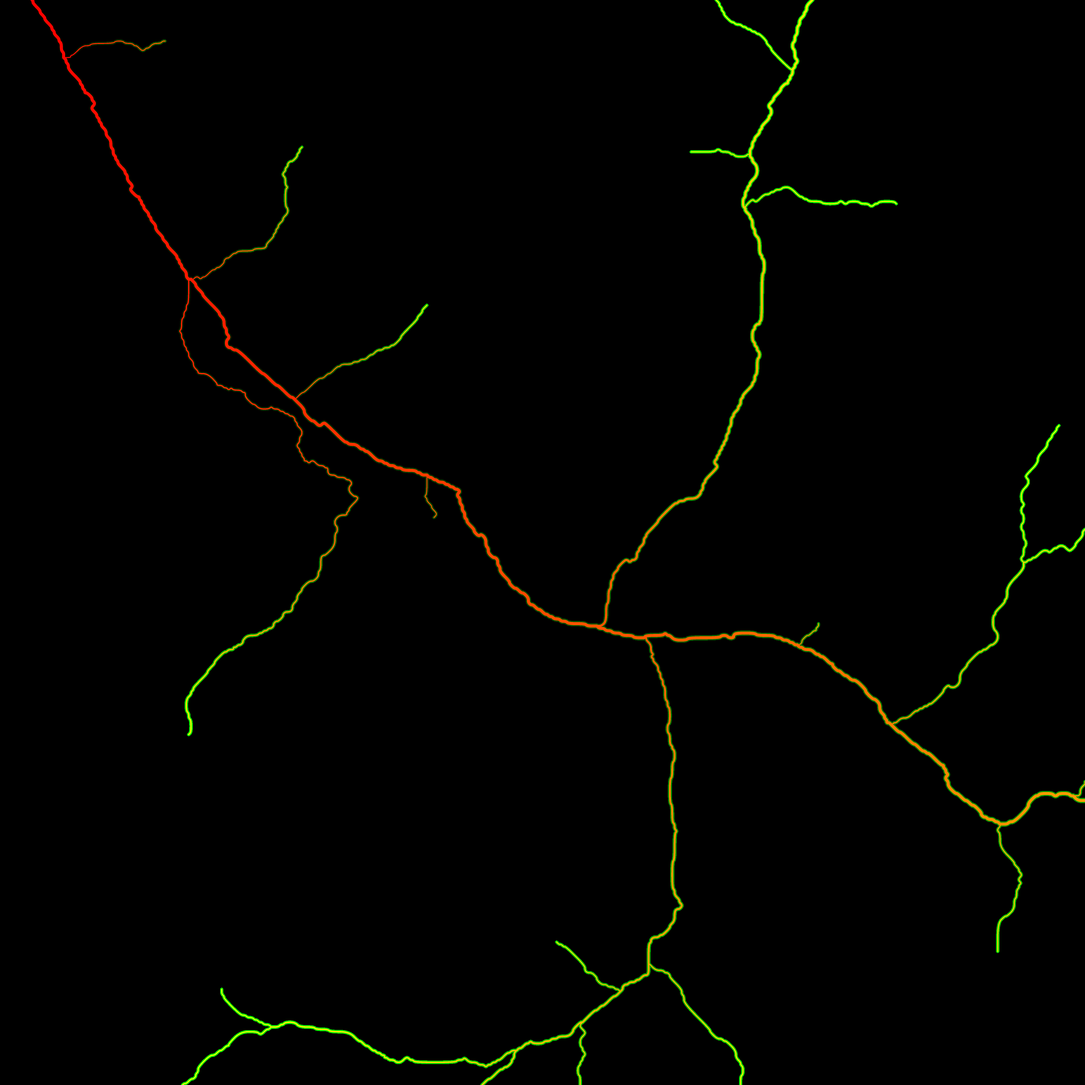
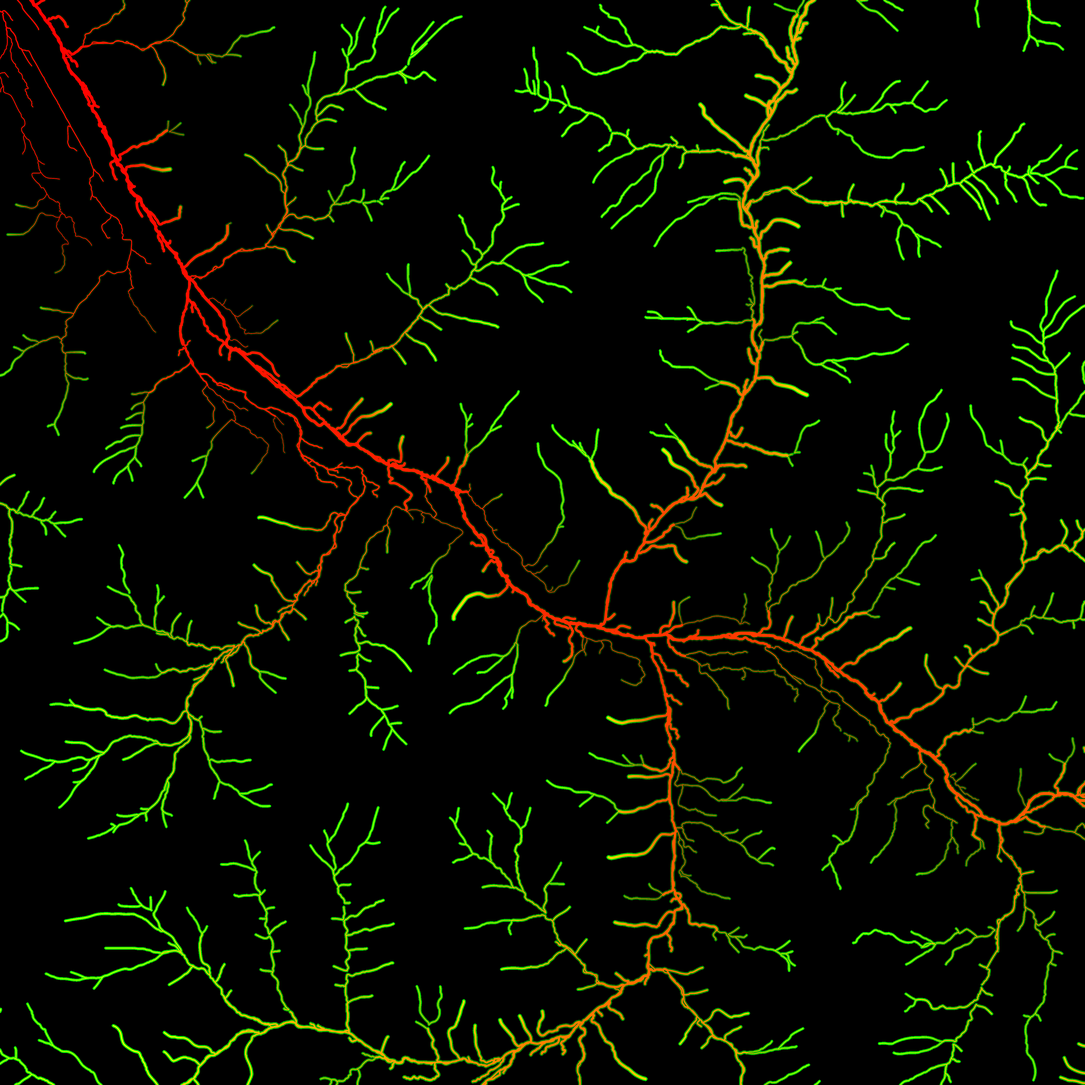
3D flight tells the story where it shows it; Google Earth-style controls; basin context when zoomed out
- Layers switch on at keyframes, not fixed shares of the flight: the floodplain over
  the wide valley floor early on, streams while looking at a dense knot of side creeks,
  roads while looking at the densest road cluster, then red dots at the 462 road-stream
  crossings in the tile, then everything on for the orbit. Highlight spots come from the
  bake (densest lines), so the path still works if the data change.
- Roads light up outward from where the camera is looking (a few seconds for the tile)
  instead of sweeping up the valley.
- Streams drawn from the pre-road lidar flowpaths down to 4 ha of drainage.
- Controls: left-drag pans, right/Shift/Ctrl-drag rotates and tilts, wheel and pinch
  zoom; pressing on the view takes over from the flight; double-click eases in to a point.
- Zoomed out (past about 7 km), the Baduwa't basin outline, the river to the Pacific
  and Ruth Lake fade in, flat and lightweight (33 kB), with labels outside the outline.

diff --git a/index.html b/index.html
@@ -100,6 +100,9 @@ textarea{min-height:70px;resize:vertical}
 .hero .leg .rempick button[aria-pressed="true"]{background:#F4F1EA;color:#0e1b26}
 .hero .leg b{display:inline-block;width:22px;height:5px;border-radius:2px;vertical-align:middle;margin-right:7px}
 @media (max-width:700px){.hero .lay3d{bottom:60px}.hero .stage{bottom:104px}.hero .stage span{display:none}.hero .leg{display:none}}
+.lab3d.far{font-size:15px;color:#E9E4D8;transform-origin:0 50%}
+.lab3d.far.left{margin-top:-0.6em;padding-left:8px}
+.lab3d.far.right{margin-top:-0.6em;translate:-100% 0;padding-right:8px}
 .lab3d{position:absolute;left:0;top:0;will-change:transform;font-family:var(--display);font-style:italic;font-size:17px;color:#F4F1EA;text-shadow:0 0 4px #0e1b26,0 0 8px #0e1b26;pointer-events:none;white-space:nowrap}
 .sec{padding-block:44px 8px;display:grid;gap:18px}
 .sec h2{font-size:clamp(26px,3vw,34px)}
@@ -604,28 +607,38 @@ function initThree(){
   try { renderer = new THREE.WebGLRenderer({ canvas, antialias: true }); } catch (e) { canvas.hidden = true; return { resize(){} }; }
   const SKY = new THREE.Color("#0e1b26");
   const scene = new THREE.Scene(); scene.background = SKY;
-  const cam = new THREE.PerspectiveCamera(42, 1, 10, 20000);
-  const ctl = new THREE.OrbitControls(cam, canvas); ctl.enableDamping = true; ctl.maxPolarAngle = 1.35; ctl.enabled = false;
-  ctl.minDistance = 250; ctl.maxDistance = 6500;
+  const cam = new THREE.PerspectiveCamera(42, 1, 10, 400000);
+  // Google Earth style: left-drag pans the ground, right-drag (or Shift/Ctrl-drag) rotates and tilts, wheel zooms,
+  // one finger pans and two fingers zoom and rotate on a phone
+  const ctl = new THREE.OrbitControls(cam, canvas); ctl.enableDamping = true; ctl.dampingFactor = 0.08; ctl.maxPolarAngle = 1.45; ctl.enabled = false;
+  ctl.minDistance = 150; ctl.maxDistance = 160000; ctl.screenSpacePanning = false; ctl.zoomSpeed = 2.0;
+  ctl.mouseButtons = { LEFT: THREE.MOUSE.PAN, MIDDLE: THREE.MOUSE.DOLLY, RIGHT: THREE.MOUSE.ROTATE };
+  ctl.touches = { ONE: THREE.TOUCH.PAN, TWO: THREE.TOUCH.DOLLY_ROTATE };
   const EX = 1.35, SPAN = 10, DUR = 130000;   // vertical exaggeration, path sample spacing (m), flight length (ms)
-  // ---- the flight's story: layer changes keyed to the share of the flight flown ----
+  // ---- the flight's story. Each stage is keyed to a keyframe (k, fractional), so a layer comes on while the camera is
+  // looking at a good example of it: the wide valley floor early on, a dense knot of side creeks, the densest road cluster.
   const STAGES = [
-    { at: 0.00, t: "Aerial imagery", s: "What a plane sees: the river, two years after the 2020 August Complex fire." },
-    { at: 0.08, t: "Lidar: the bare ground", s: "Laser pulses that reach the soil strip away the trees and show the shape of the land." },
-    { at: 0.18, t: "Streams", s: "Traced from the lidar, filling in from the river up into the side creeks." },
-    { at: 0.34, t: "Roads the lidar found", s: "" },
-    { at: 0.66, t: "Valley floor", s: "" },
-    { at: 0.82, t: "Look around", s: "Drag to look around, or switch the layers on and off below." } ];
+    { k: 0, t: "Aerial imagery", s: "What a plane sees: the river, two years after the 2020 August Complex fire." },
+    { k: 0.2, t: "Lidar: the bare ground", s: "Laser pulses that reach the soil strip away the trees and show the shape of the land." },
+    { k: 0.85, t: "Valley floor", s: "" },
+    { k: 3.0, t: "Streams", s: "Traced from the lidar wherever 4 ha or more drains to a point, filling in from the river up into the side creeks." },
+    { k: 4.6, t: "Roads the lidar found", s: "" },
+    { k: 5.45, t: "Where roads cross streams", s: "" },
+    { k: 7.3, t: "Look around", s: "Drag to look around, or switch the layers on and off below." } ];
+  const SI = t => STAGES.findIndex(x => x.t === t);
+  STAGES.forEach(x => x.at = x.k / 9);
   const ramp = (a, b, x) => Math.max(0, Math.min(1, (x - a) / (b - a)));
-  const auto = f => ({ wipe: ramp(0.08, 0.16, f), streams: ramp(0.18, 0.34, f), roads: ramp(0.34, 0.62, f), rem: ramp(0.66, 0.74, f) });
+  let KF = k => k / 9;                                                   // keyframe -> share of the flight; set once the path is built
+  const auto = f => { const K = KF, up = ramp(K(0.85), K(1.25), f), down = ramp(K(2.4), K(2.9), f), back = ramp(K(7.2), K(8.0), f);
+    return { wipe: ramp(K(0.2), K(0.7), f), rem: Math.max(up * (1 - down), back), streams: ramp(K(3.0), K(4.2), f), roads: ramp(K(4.6), K(5.5), f), xing: ramp(K(5.4), K(5.9), f) }; };
   const U = { tImg: { value: null }, tLid: { value: null }, tRem: { value: null }, tRoad: { value: null }, tStr: { value: null },
-    uWipe: { value: 0 }, uStream: { value: 0 }, uStreamA: { value: 1 }, uRoad: { value: 0 }, uRoadA: { value: 1 }, uRem: { value: 0 }, uDark: { value: 0 },
+    uWipe: { value: 0 }, uStream: { value: 0 }, uStreamA: { value: 1 }, uRoad: { value: 0 }, uRoadA: { value: 1 }, uRem: { value: 0 }, uDark: { value: 0 }, uROrig: { value: new THREE.Vector2() }, uRRad: { value: 0 },
     uA: { value: new THREE.Vector2() }, uDir: { value: new THREE.Vector2(1, 0) }, uLen: { value: 1 },
     uPal: { value: [0, 1, 2, 3, 4, 5].map(() => new THREE.Color("#E8A33D")) }, fogC: { value: SKY }, fogN: { value: 3400 }, fogF: { value: 8200 } };
   const VS = `varying vec2 vUv; varying vec3 vW; varying float vD;
     void main(){ vUv = uv; vec4 w = modelMatrix * vec4(position, 1.0); vW = w.xyz; vec4 m = viewMatrix * w; vD = -m.z; gl_Position = projectionMatrix * m; }`;
-  const FS = `uniform sampler2D tImg, tLid, tRem, tRoad, tStr; uniform float uWipe, uStream, uStreamA, uRoad, uRoadA, uRem, uDark, uLen, fogN, fogF;
-    uniform vec2 uA, uDir; uniform vec3 uPal[6]; uniform vec3 fogC; varying vec2 vUv; varying vec3 vW; varying float vD;
+  const FS = `uniform sampler2D tImg, tLid, tRem, tRoad, tStr; uniform float uWipe, uStream, uStreamA, uRoad, uRoadA, uRem, uDark, uLen, uRRad, fogN, fogF;
+    uniform vec2 uA, uDir, uROrig; uniform vec3 uPal[6]; uniform vec3 fogC; varying vec2 vUv; varying vec3 vW; varying float vD;
     vec3 pal(float id){ vec3 c = uPal[1]; for (int i = 0; i < 6; i++) { if (abs(float(i) - id) < 0.5) c = uPal[i]; } return c; }
     void main(){
       vec3 lid = mix(texture2D(tLid, vUv).rgb, texture2D(tRem, vUv).rgb, uRem);
@@ -636,7 +649,7 @@ function initThree(){
       if (s.g > 0.002) { float on = clamp((uStream - s.g) / 0.012, 0.0, 1.0), hot = on * (1.0 - clamp((uStream - s.g) / 0.05, 0.0, 1.0));
         c = mix(c, mix(vec3(0.26, 0.58, 0.86), vec3(0.75, 0.92, 1.0), hot), s.r * on * uStreamA * (1.0 - 0.7 * uRem)); }   // lines step back when the floodplain colors are on
       vec3 r = texture2D(tRoad, vUv).rgb;
-      if (r.g > 0.002) { float on = clamp((uRoad - r.g) / 0.012, 0.0, 1.0), hot = on * (1.0 - clamp((uRoad - r.g) / 0.05, 0.0, 1.0));
+      if (r.g > 0.002) { float dr = uRRad - distance(vW.xz, uROrig), on = clamp(dr / 40.0, 0.0, 1.0), hot = on * (1.0 - clamp(dr / 350.0, 0.0, 1.0));   // spreads out from uROrig
         float id = floor(r.b * 255.0 / 40.0 + 0.5) - 1.0; vec3 rc = pal(id);
         if (id < 0.5) rc = mix(rc, vec3(0.95, 0.92, 0.84), uRem * uDark);   // the main road turns cream on a dark floodplain palette
         c = mix(c, c * 0.35, r.r * on * uRoadA * 0.5 * (1.0 - 0.6 * uRem));                        // a soft dark edge under the line
@@ -645,12 +658,14 @@ function initThree(){
   let FL = null, labels = [], tj = null;
   let playing = false, manual = false, t0 = 0, ft = 0, raf = 0, last = 0, visible = true, settle = 0;
   const want = { lidar: 1, streams: 1, roads: 1, rem: 1 };                       // manual layer choice
-  const cur = { wipe: 0, streams: 0, sA: 1, roads: 0, rA: 1, rem: 0 };
+  const cur = { wipe: 0, streams: 0, sA: 1, roads: 0, rA: 1, rem: 0, xing: 0 };
+  let SPOT = null, xpts = null, ctx = null, mesh = null, zoomTo = null;
+  const ray = new THREE.Raycaster(), ndc = new THREE.Vector2();
   const lookT = new THREE.Vector3();
   function resize(){
     const w = hero.clientWidth, h = hero.clientHeight; if (!w || !h) return;
     renderer.setPixelRatio(Math.min(devicePixelRatio || 1, 2, Math.sqrt(2.4e6 / (w * h))));   // cap the pixel count on big screens
-    renderer.setSize(w, h, false); cam.aspect = w / h; cam.updateProjectionMatrix(); kick();
+    renderer.setSize(w, h, false); if (xpts) xpts.material.uniforms.uPR.value = renderer.getPixelRatio(); cam.aspect = w / h; cam.updateProjectionMatrix(); kick();
   }
   // even spacing along a line, then a Gaussian smooth (ends mirrored so the line keeps its heading)
   function resamp(P, d){ const o = [P[0].slice()]; let carry = 0;
@@ -675,7 +690,7 @@ function initThree(){
       return (HT[i] * (1 - fc) + HT[i + 1] * fc) * (1 - fr) + (HT[i + n] * (1 - fc) + HT[i + n + 1] * fc) * fr; };
     const RING = [[0, 0], [70, 0], [-70, 0], [0, 70], [0, -70], [50, 50], [-50, 50], [50, -50], [-50, -50]];
     const clear = (x, z) => Math.max(...RING.map(o => hAt(x + o[0], z + o[1])));
-    scene.add(new THREE.Mesh(g, new THREE.ShaderMaterial({ uniforms: U, vertexShader: VS, fragmentShader: FS })));
+    mesh = new THREE.Mesh(g, new THREE.ShaderMaterial({ uniforms: U, vertexShader: VS, fragmentShader: FS })); scene.add(mesh);
     // the river, smoothed hard (sigma 300 m) so the flight line ignores the meanders
     const raw = resamp(tj.path.map(p => [p[0], -p[1], (p[2] - tj.zmin) * EX]), SPAN);
     const R = resamp(gsmooth(raw, 300 / SPAN), SPAN), LEN = (R.length - 1) * SPAN;
@@ -691,12 +706,21 @@ function initThree(){
     // the exit climbs out to the side of the valley (never over its own look point), and the orbit starts where the climb
     // ends, so the view turns from up-river to the valley centre gradually instead of whipping round
     const Cf = W(LEN * 0.55); Cf.y += 40;
-    const S = -1, K7 = P(3900, 640, S * 1300), OR = Math.hypot(K7.x - Cf.x, K7.z - Cf.z), OH = K7.y;
+    // highlight spots from the bake (densest stream lines, densest roads; local x east / y north)
+    const spot = (k, d) => { const q = (tj.spots || {})[k]; if (!q) return d; return new THREE.Vector3(q[0], hAt(q[0], -q[1]) + 10, -q[1]); };
+    const STs = spot("streams", W(3400)), RDs = spot("roads", W(3400));
+    SPOT = { roads: RDs };
+    // the exit climbs out to the right of the river (the road cluster is on the left), and stays inside the tile
+    let lat = 1300, K7 = P(3900, 640, lat);
+    while ((Math.abs(K7.x) > 1950 || Math.abs(K7.z) > 1950) && lat > 300) { lat -= 100; K7 = P(3900, 640, lat); }
+    const OR = Math.hypot(K7.x - Cf.x, K7.z - Cf.z), OH = K7.y;
     const orb = a => new THREE.Vector3(Cf.x + OR * Math.cos(a), OH, Cf.z + OR * Math.sin(a));
-    const a0 = Math.atan2(K7.z - Cf.z, K7.x - Cf.x), K6 = P(3650, 260, S * 480);
+    const a0 = Math.atan2(K7.z - Cf.z, K7.x - Cf.x), K6 = P(3500, 330, 450);
     const r_ = K7.clone().sub(Cf), v_ = K7.clone().sub(K6), dir = (r_.z * v_.x - r_.x * v_.z) < 0 ? 1 : -1;
-    const KC = [P(-420, 640), P(260, 330, 90), P(900, 150), P(1600, 92, -30), P(2400, 82, 25), P(3200, 90), K6, K7, orb(a0 + 0.35 * dir), orb(a0 + 0.7 * dir)];
-    const KL = [W(1700), W(1500), W(1800), W(2500), W(3300), W(4000), W(4500), W(4300).lerp(Cf, 0.65), Cf, Cf];
+    // 0 high opening | 1-2 over the wide valley floor (floodplain on) | 3-4 low up the river, looking at the side creeks (streams)
+    // 5-6 up on the right bank, looking across at the road cluster (roads, then crossings) | 7 climb | 8-9 orbit, everything on
+    const KC = [P(-420, 640), P(260, 330, 90), P(900, 170, 40), P(1600, 100, -30), P(2400, 95, 25), P(3000, 260, 350), K6, K7, orb(a0 + 0.35 * dir), orb(a0 + 0.7 * dir)];
+    const KL = [W(1700), W(1500), W(1900), W(2500), STs, RDs, RDs, W(4300).lerp(Cf, 0.65), Cf, Cf];
     const cc = new THREE.CatmullRomCurve3(KC, false, "centripetal"), lc = new THREE.CatmullRomCurve3(KL, false, "centripetal");
     cc.arcLengthDivisions = lc.arcLengthDivisions = 4000; cc.updateArcLengths(); lc.updateArcLengths();   // a fine arc-length table keeps the speed even
     // lift wherever the line between keyframes would pass close over a spur, eased so the camera never steps
@@ -707,15 +731,60 @@ function initThree(){
     const RE = 0.07, VM = 1 / (1 - RE / 2);                                   // ease in over the first 7%, then even speed
     const speed = cc.getLength() * VM / DUR, om = speed / OR * dir;          // the orbit carries on at the same ground speed
     FL = { cc, lc, lift, NS, Cf, orb, a1: a0 + 0.7 * dir, om };
+    // keyframe -> share of the flight, through the arc-length table and the ease-in, so stages land on their keyframes
+    const NT = 2000, uT = []; for (let i = 0; i <= NT; i++) uT.push(cc.getUtoTmapping(i / NT));
+    const memo = new Map(), nK = KC.length - 1;
+    KF = k => { if (memo.has(k)) return memo.get(k); const tt = k / nK; let i = 0; while (i < NT && uT[i] < tt) i++;
+      const u = i / NT, f = u < VM * RE / 2 ? Math.sqrt(2 * RE * u / VM) : u / VM + RE / 2; memo.set(k, f); return f; };
+    STAGES.forEach(x => x.at = KF(x.k));
+    // red dots where roads cross streams; diversion-prone ones a little larger
+    const xs = tj.xings || [], xpos = new Float32Array(xs.length * 3), dv = new Float32Array(xs.length);
+    xs.forEach((x, i) => { xpos[i * 3] = x[0]; xpos[i * 3 + 2] = -x[1]; xpos[i * 3 + 1] = hAt(x[0], -x[1]) + 5; dv[i] = x[3]; });
+    const pg = new THREE.BufferGeometry(); pg.setAttribute("position", new THREE.BufferAttribute(xpos, 3)); pg.setAttribute("aDiv", new THREE.BufferAttribute(dv, 1));
+    xpts = new THREE.Points(pg, new THREE.ShaderMaterial({ transparent: true, depthWrite: false,
+      uniforms: { uX: { value: 0 }, uPR: { value: renderer.getPixelRatio() }, uROrig: U.uROrig, uRRad: U.uRRad, fogN: U.fogN, fogF: U.fogF },
+      vertexShader: `attribute float aDiv; uniform float uPR, uRRad; uniform vec2 uROrig; varying float vOn, vD;
+        void main(){ vec4 w = modelMatrix * vec4(position, 1.0); vec4 m = viewMatrix * w; vD = -m.z; vOn = step(distance(w.xz, uROrig), uRRad);
+          gl_PointSize = clamp(9000.0 / vD, 6.0, 18.0) * (aDiv > 0.5 ? 1.2 : 1.0) * uPR; gl_Position = projectionMatrix * m; }`,
+      fragmentShader: `uniform float uX, fogN, fogF; varying float vOn, vD;
+        void main(){ vec2 p = gl_PointCoord * 2.0 - 1.0; float r = length(p); if (r > 1.0) discard;
+          vec3 c = r > 0.76 ? vec3(1.0, 0.96, 0.9) : vec3(0.86, 0.12, 0.10);
+          gl_FragColor = vec4(c, uX * vOn * (1.0 - smoothstep(fogN, fogF, vD)) * smoothstep(1.0, 0.84, r)); }` }));
+    xpts.renderOrder = 2; scene.add(xpts);
+    // zoomed-out context: the whole basin outline, the river to the Pacific, Ruth Lake, a faint ground plane, and labels
+    // outside the outline; drawn flat at the tile's lowest elevation, and only faded in once the camera is well out
+    const C = tj.context;
+    if (C){
+      ctx = { group: new THREE.Group(), mats: [], labs: [] };
+      const line = (pts, color, op, close) => { const v = pts.map(p => new THREE.Vector3(p[0], -4, -p[1])); if (close) v.push(v[0].clone());
+        const m = new THREE.LineBasicMaterial({ color, transparent: true, opacity: 0, depthWrite: false }); m.userData.op = op; ctx.mats.push(m);
+        ctx.group.add(new THREE.Line(new THREE.BufferGeometry().setFromPoints(v), m)); };
+      const xs_ = C.basin.map(p => p[0]), ys_ = C.basin.map(p => p[1]);
+      const gw = Math.max(...xs_) - Math.min(...xs_) + 60000, gh = Math.max(...ys_) - Math.min(...ys_) + 60000;
+      const gm = new THREE.MeshBasicMaterial({ color: "#16262f", transparent: true, opacity: 0, depthWrite: false }); gm.userData.op = 0.85; ctx.mats.push(gm);
+      const gp = new THREE.Mesh(new THREE.PlaneGeometry(gw, gh), gm); gp.rotation.x = -Math.PI / 2;
+      gp.position.set((Math.max(...xs_) + Math.min(...xs_)) / 2, -12, -(Math.max(...ys_) + Math.min(...ys_)) / 2); ctx.group.add(gp);
+      line(C.basin, "#F4F1EA", 0.75, true);
+      C.river.forEach(l => line(l, "#6FB7E8", 0.95, false));
+      C.lake.forEach(l => line(l, "#6FB7E8", 0.9, true));
+      ctx.group.renderOrder = 3; scene.add(ctx.group);
+      C.labels.concat([{ name: "This view", x: 0, y: 0, anchor: "left" }]).forEach(l => { const d = document.createElement("div"); d.className = "lab3d far " + (l.anchor || ""); d.textContent = l.name;
+        d.style.display = "none"; $("#labs3d").appendChild(d); ctx.labs.push({ el: d, v: new THREE.Vector3(l.x, 0, -l.y), on: false }); });
+    }
+    const nd = xs.filter(x => x[3] === 1).length;
+    STAGES[SI("Where roads cross streams")].s = `Each red dot is a road crossing a stream: ${fmt(xs.length)} in this view. ${fmt(nd)} of them could send the creek down the road if the crossing plugs.`;
     // ?debug in the address: window.__fl.seek(ms) jumps along the flight (paused), window.__fl.rem(id) switches palette
-    if (/[?&]debug\b/.test(location.search)) window.__fl = { seek: t => { playing = false; ft = t; t0 = performance.now() - t; camAt(ft); kick(); }, rem: k => setRem(k) };
+    if (/[?&]debug\b/.test(location.search)) window.__fl = { seek: t => { playing = false; ft = t; t0 = performance.now() - t; camAt(ft); kick(); }, rem: k => setRem(k),
+      pose: t => { camAt(t); return { p: cam.position.toArray(), l: lookT.toArray(), g: hAt(cam.position.x, cam.position.z) }; }, stages: () => STAGES.map(x => [x.t, +(x.at * DUR / 1000).toFixed(1)]),
+      far: d => { takeOver(); ctl.target.set(-15000, 0, -25000); cam.position.set(-15000 + d * 0.35, d * 0.8, -25000 + d * 0.6); ctl.update(); kick(); },
+      pts: () => xpts && { n: xpts.geometry.attributes.position.count, uX: xpts.material.uniforms.uX.value, R: U.uRRad.value, o: U.uROrig.value.toArray(), p0: Array.from(xpts.geometry.attributes.position.array.slice(0, 3)), vis: xpts.visible, pr: xpts.material.uniforms.uPR.value } };
     tj.labels.forEach(l => { const d = document.createElement("div"); d.className = "lab3d"; d.textContent = l.name; $("#labs3d").appendChild(d);
       labels.push({ el: d, v: new THREE.Vector3(l.x, (l.z - tj.zmin) * EX + 60, -l.y), on: -1 }); });
     // road legend from the classes in this tile
     const rc = tj.road_classes || [{ name: "Road found in the lidar", color: "#E8A33D", km: 0 }];
     rc.forEach((c, i) => U.uPal.value[i].set(c.color));
     const km = rc.reduce((a, c) => a + c.km, 0);
-    STAGES[3].s = km ? `${fmt(km)} km of road in this view alone${tj.roads_classed ? ", sorted by how it is used" : ""}. Across the Upper Baduwa't, half the road network is on no public map.` : "Every road bench under the trees, mapped or not.";
+    STAGES[SI("Roads the lidar found")].s = km ? `${fmt(km)} km of road in this view alone${tj.roads_classed ? ", sorted by how it is used" : ""}. Across the Upper Baduwa't, half the road network is on no public map.` : "Every road bench under the trees, mapped or not.";
     $("#leg3dRoads").innerHTML = rc.map(c => `<div><b style="background:${c.color}"></b>${esc3(c.name)}</div>`).join("");
   }
   // floodplain palettes (build_rem_styles.py): REM rebuilt at 1 m, each with its own stretch and legend
@@ -727,8 +796,8 @@ function initThree(){
   let remStyle = "glow";
   function setRem(k, first){
     remStyle = k; const st = (tj.rem_styles || []).find(x => x.id === k); if (!st) return;
-    STAGES[4].s = REMNOTE[k] || ""; U.uDark.value = DARK[k] ? 1 : 0;
-    const box = $("#stage"); if (box.dataset.k === STAGES[4].t) box.querySelector("span").textContent = STAGES[4].s;
+    const ri = SI("Valley floor"); STAGES[ri].s = REMNOTE[k] || ""; U.uDark.value = DARK[k] ? 1 : 0;
+    const box = $("#stage"); if (box.dataset.k === STAGES[ri].t) box.querySelector("span").textContent = STAGES[ri].s;
     $$("#remPick button").forEach(b => b.setAttribute("aria-pressed", String(b.dataset.r === k)));
     const at = (p, l) => `<span style="left:${(p * 100).toFixed(1)}%">${l}</span>`;
     $("#remBar").style.background = `linear-gradient(90deg,${st.grad.join(",")})`;
@@ -751,27 +820,34 @@ function initThree(){
   // ---- layers: the flight drives them until a viewer picks one ----
   function layers(dt){
     let tgt;
-    if (!manual){ const a = auto(Math.min(1, ft / DUR)); tgt = { wipe: a.wipe, streams: a.streams, sA: 1, roads: a.roads, rA: 1, rem: a.rem }; Object.assign(cur, tgt); }
+    if (!manual){ const a = auto(Math.min(1, ft / DUR)); tgt = { wipe: a.wipe, streams: a.streams, sA: 1, roads: a.roads, rA: 1, rem: a.rem, xing: a.xing }; Object.assign(cur, tgt);
+      if (SPOT) U.uROrig.value.set(SPOT.roads.x, SPOT.roads.z); }
     else {
       const k = 1 - Math.exp(-dt / 0.35), step = (a, b, r) => a + Math.max(-r * dt, Math.min(r * dt, b - a));
       cur.wipe = step(cur.wipe, want.lidar, 0.45);
       cur.sA += ((want.streams ? 1 : 0) - cur.sA) * k; if (want.streams) cur.streams = step(cur.streams, 1, 0.5);
-      cur.rA += ((want.roads ? 1 : 0) - cur.rA) * k; if (want.roads) cur.roads = step(cur.roads, 1, 0.5);
+      cur.rA += ((want.roads ? 1 : 0) - cur.rA) * k; if (want.roads) cur.roads = step(cur.roads, 1, 0.3);
+      cur.xing += ((want.roads && want.streams && cur.roads > 0.6 ? 1 : 0) - cur.xing) * k;
       cur.rem += ((want.rem ? 1 : 0) - cur.rem) * k;
       settle = Math.abs(cur.wipe - want.lidar) + Math.abs(cur.sA - (want.streams ? 1 : 0)) + Math.abs(cur.rA - (want.roads ? 1 : 0)) + Math.abs(cur.rem - (want.rem ? 1 : 0))
-        + (want.streams ? 1 - cur.streams : 0) + (want.roads ? 1 - cur.roads : 0);
+        + (want.streams ? 1 - cur.streams : 0) + (want.roads ? 1 - cur.roads : 0) + Math.abs(cur.xing - (want.roads && want.streams ? 1 : 0));
     }
     U.uWipe.value = cur.wipe; U.uStream.value = cur.streams; U.uStreamA.value = cur.sA; U.uRoad.value = cur.roads; U.uRoadA.value = cur.rA; U.uRem.value = cur.rem;
+    const e = cur.roads * cur.roads * (3 - 2 * cur.roads); U.uRRad.value = e * 6500;            // the road front sweeps the tile in a few seconds
+    if (xpts) xpts.material.uniforms.uX.value = cur.xing * Math.min(cur.sA, cur.rA);
     const on = { img: cur.wipe < 0.5, lidar: cur.wipe >= 0.5, streams: cur.streams > 0.02 && cur.sA > 0.5, roads: cur.roads > 0.02 && cur.rA > 0.5, rem: cur.rem > 0.5 };
     $$("#lay3d [data-l]").forEach(b => { const v = String(!!on[b.dataset.l]); if (b.getAttribute("aria-pressed") !== v) b.setAttribute("aria-pressed", v); });
     $("#leg3dRoads").hidden = !on.roads; $("#leg3dRem").hidden = !on.rem; $("#leg3d").hidden = !(on.roads || on.rem);
-    const st = manual ? null : STAGES.filter(s => s.at <= ft / DUR).pop();
+    const st = manual || ctl.enabled ? null : STAGES.filter(s => s.at <= ft / DUR).pop();   // no captions once the viewer has taken over
     const box = $("#stage");
     if (box.dataset.k !== (st ? st.t : "")) { box.dataset.k = st ? st.t : ""; box.classList.add("off");
       clearTimeout(box._t); box._t = setTimeout(() => { if (st) { box.querySelector("b").textContent = st.t; box.querySelector("span").textContent = st.s; box.classList.remove("off"); } }, 380); }
   }
   function placeLabels(){
     const w = hero.clientWidth, h = hero.clientHeight, show = cur.streams > 0.3 && cur.sA > 0.5;
+    if (ctx) ctx.labs.forEach(l => { const v = l.v.clone().project(cam), vis = ctx.alpha > 0.3 && v.z < 1 && Math.abs(v.x) < 1.1 && Math.abs(v.y) < 1.1;
+      if (vis !== l.on) { l.el.style.display = vis ? "" : "none"; l.on = vis; }
+      if (vis) { l.el.style.opacity = ctx.alpha.toFixed(2); l.el.style.transform = `translate(${((v.x + 1) / 2 * w).toFixed(1)}px,${((1 - v.y) / 2 * h).toFixed(1)}px)`; } });
     labels.forEach(l => { const v = l.v.clone().project(cam), vis = show && v.z < 1 && Math.abs(v.x) < 1.05 && Math.abs(v.y) < 1.05;
       if (vis !== l.on) { l.el.style.display = vis ? "" : "none"; l.on = vis; }
       if (vis) l.el.style.transform = `translate(${((v.x + 1) / 2 * w).toFixed(1)}px,${((1 - v.y) / 2 * h).toFixed(1)}px) translate(-50%,-100%)`; });
@@ -781,9 +857,15 @@ function initThree(){
     raf = 0; if (!visible || document.hidden) return;
     const dt = Math.min(0.1, (now - (last || now)) / 1000); last = now;
     if (playing) ft = now - t0;
-    if (FL && !ctl.enabled) camAt(ft); else ctl.update();
+    if (FL && !ctl.enabled) camAt(ft);
+    else { if (zoomTo){ const k = Math.min(1, (now - zoomTo.t0) / 700), e = k * k * (3 - 2 * k);
+        ctl.target.lerpVectors(zoomTo.a, zoomTo.b, e); cam.position.lerpVectors(zoomTo.pa, zoomTo.pb, e); if (k >= 1) zoomTo = null; }
+      ctl.update(); }
+    const dc = Math.hypot(cam.position.x, cam.position.y, cam.position.z);
+    U.fogN.value = Math.max(3400, dc * 1.3); U.fogF.value = Math.max(8200, dc * 3);    // the tile stays visible from far out
+    if (ctx){ const a = ramp(7000, 16000, dc); ctx.group.visible = a > 0.01; ctx.mats.forEach(m => m.opacity = a * m.userData.op); ctx.alpha = a; }
     layers(dt); renderer.render(scene, cam); placeLabels();
-    if (playing || ctl.enabled || (manual && settle > 0.002)) raf = requestAnimationFrame(frame); else last = 0;
+    if (playing || ctl.enabled || zoomTo || (manual && settle > 0.002)) raf = requestAnimationFrame(frame); else last = 0;
   }
   function kick(){ if (!raf && visible && !document.hidden) raf = requestAnimationFrame(frame); }
   function play(on){ playing = on && !!FL; if (playing){ ctl.enabled = false; $("#bOrbit").setAttribute("aria-pressed", "false"); t0 = performance.now() - ft; }
@@ -798,9 +880,18 @@ function initThree(){
     if (!manual) { manual = true; want.lidar = cur.wipe >= 0.5 ? 1 : 0; want.streams = cur.streams > 0.02; want.roads = cur.roads > 0.02; want.rem = cur.rem > 0.5; }
     const l = b.dataset.l;
     if (l === "img") want.lidar = 0; else if (l === "lidar") want.lidar = 1;
-    else if (l === "streams") want.streams = !want.streams; else if (l === "roads") want.roads = !want.roads;
+    else if (l === "streams") want.streams = !want.streams;
+    else if (l === "roads") { want.roads = !want.roads; if (want.roads && cur.rA < 0.5) { cur.roads = 0; U.uROrig.value.set(lookT.x, lookT.z); } }
     else if (l === "rem") { want.rem = !want.rem; if (want.rem) want.lidar = 1; }
     kick(); }));
+  function takeOver(){ if (ctl.enabled) return; play(false); ctl.enabled = true; ctl.target.copy(lookT); ctl.update(); $("#bOrbit").setAttribute("aria-pressed", "true"); kick(); }
+  hero.addEventListener("pointerdown", e => { if (e.target === canvas && FL) takeOver(); }, true);     // capture: runs before the controls
+  canvas.addEventListener("contextmenu", e => e.preventDefault());
+  canvas.addEventListener("dblclick", e => { if (!mesh) return; takeOver(); const r = canvas.getBoundingClientRect();
+    ndc.set((e.clientX - r.left) / r.width * 2 - 1, -(e.clientY - r.top) / r.height * 2 + 1); ray.setFromCamera(ndc, cam);
+    const hit = ray.intersectObject(mesh)[0]; if (!hit) return;
+    const pb = hit.point.clone().add(cam.position.clone().sub(hit.point).multiplyScalar(0.45));
+    zoomTo = { a: ctl.target.clone(), b: hit.point.clone(), pa: cam.position.clone(), pb, t0: performance.now() }; kick(); });
   addEventListener("resize", resize);
   // ---- load ----
   const img = src => new Promise((res, rej) => { const im = new Image(); im.onload = () => res(im); im.onerror = rej; im.src = src; });
